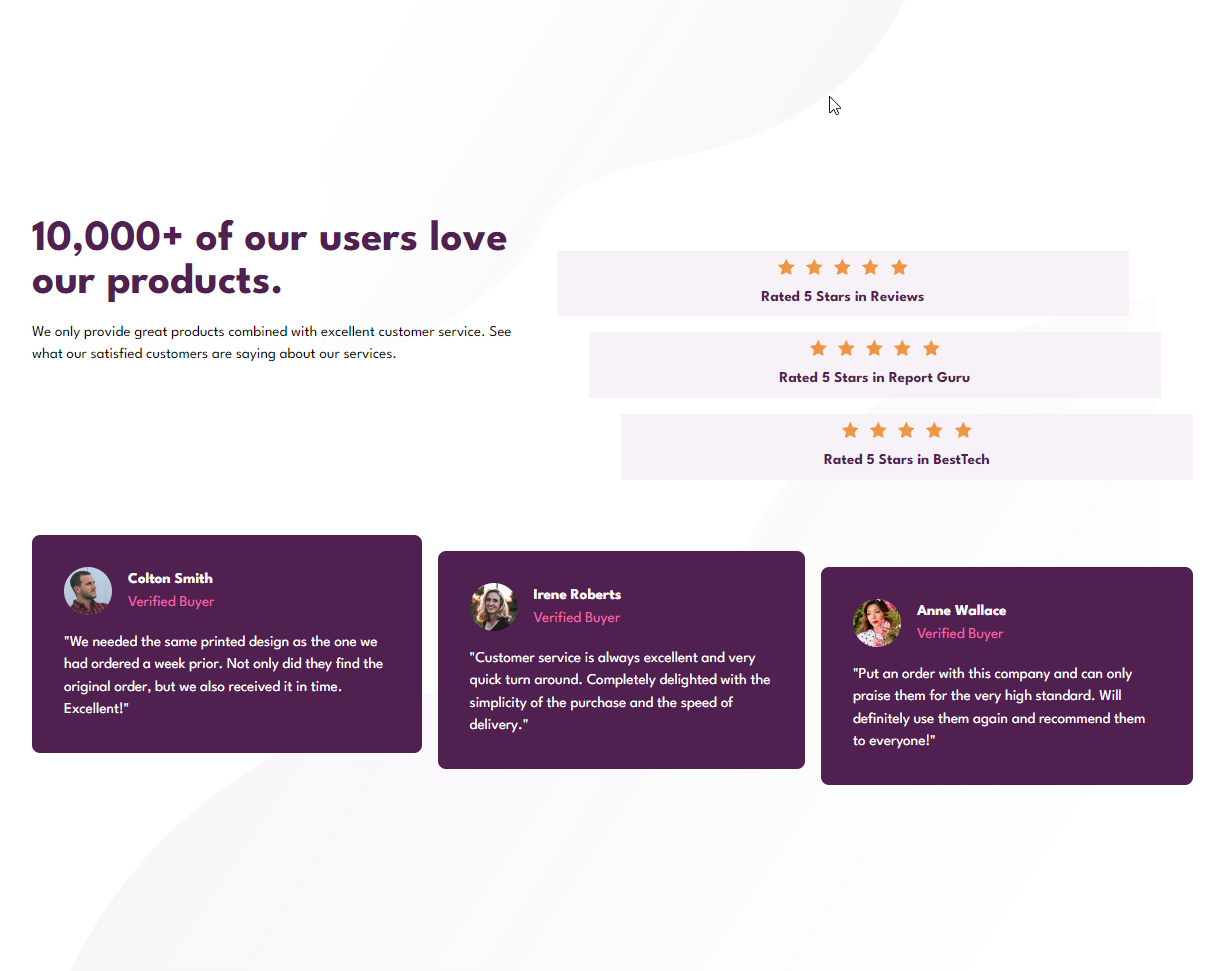
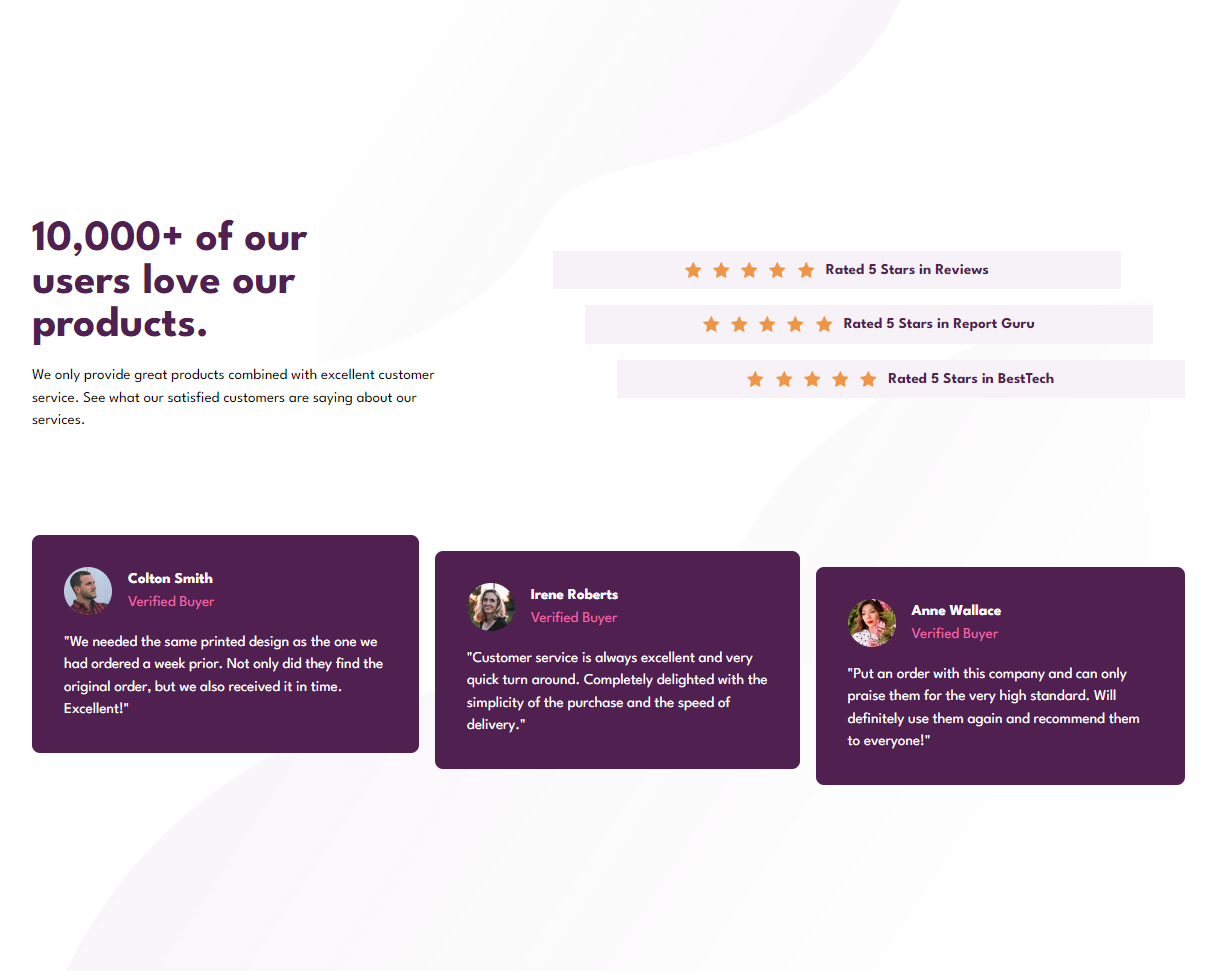
final touches

diff --git a/index.html b/index.html
@@ -25,11 +25,11 @@
     <body class="h-screen grid place-content-md-center">
         <main class="mx-2 py-5 grid-md gap-1 max-w-lg">
             <div class="text-center text-md-left pr-md-5">
-                <h1 class="text-4xl text-md-2_7 font-bold text-Very-Dark-Magenta">
+                <h1 class="text-4xl text-md-2_7 pr-md-8 font-bold text-Very-Dark-Magenta">
                     10,000+ of our users love our products.
                 </h1>
 
-                <p class="mt-1">
+                <p class="mt-1 pr-md-5">
                     We only provide great products combined with excellent customer
                     service. See what our satisfied customers are saying about our
                     services.
@@ -38,7 +38,7 @@
 
             <div class="flex flex-col my-2 gap-1">
                 <div
-                    class="p-0_5 font-bold flex flex-col flex-wrap items-center gap-0_7 translate-md-x-4 bg-Light-Grayish-Magenta text-Very-Dark-Magenta"
+                    class="p-0_5 font-bold flex flex-col flex-md-row flex-wrap justify-center items-center gap-0_7 translate-md-x-4 bg-Light-Grayish-Magenta text-Very-Dark-Magenta"
                 >
                     <div class="flex items-center gap-0_7">
                         <img src="images/icon-star.svg" alt="" />
@@ -50,7 +50,7 @@
                     <p>Rated 5 Stars in Reviews</p>
                 </div>
                 <div
-                    class="p-0_5 font-bold flex flex-col flex-wrap items-center gap-0_7 translate-md-x-2 bg-Light-Grayish-Magenta text-Very-Dark-Magenta"
+                    class="p-0_5 font-bold flex flex-col flex-md-row flex-wrap justify-center items-center gap-0_7 translate-md-x-2 bg-Light-Grayish-Magenta text-Very-Dark-Magenta"
                 >
                     <div class="flex items-center gap-0_7">
                         <img src="images/icon-star.svg" alt="" />
@@ -63,7 +63,7 @@
                 </div>
 
                 <div
-                    class="p-0_5 font-bold flex flex-col flex-wrap items-center gap-0_7 bg-Light-Grayish-Magenta text-Very-Dark-Magenta"
+                    class="p-0_5 font-bold flex flex-col flex-md-row flex-wrap justify-center items-center gap-0_7 bg-Light-Grayish-Magenta text-Very-Dark-Magenta"
                 >
                     <div class="flex items-center gap-0_7">
                         <img src="images/icon-star.svg" alt="" />

diff --git a/style.css b/style.css
@@ -689,6 +689,10 @@ h6 {
     justify-content: flex-end;
 }
 
+.justify-center {
+    justify-content: center;
+}
+
 .justify-between {
     justify-content: space-between;
 }
@@ -783,6 +787,4 @@ h6 {
     .translate-md-x-4 {
         transform: translateX(-4rem);
     }
-
-    
 }

diff --git a/README.md b/README.md
@@ -33,7 +33,7 @@ Users should be able to:
 
 ### Links
 
-- Solution URL: [here](https://your-solution-url.com)
+- Solution URL: [here](https://www.frontendmentor.io/solutions/social-proof-section-by-ali-jabrayilzade-ubGuJ3wKhH)
 - Live Site URL: [here](https://social-proof-section-ali-jabrayilzade.netlify.app/)
 
 ## My process
